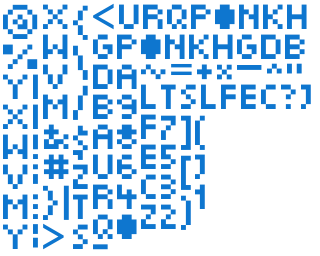
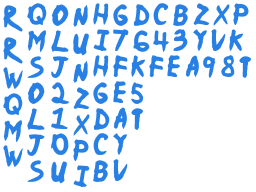
changes of font

diff --git a/core/src/com/agmcleod/nwt/GameScreen.java b/core/src/com/agmcleod/nwt/GameScreen.java
@@ -24,6 +24,7 @@ public class GameScreen implements Screen {
     private CoreGame cg;
     private Disc disc;
     private BitmapFont font;
+    private BitmapFont uiFont;
     private boolean gameOver;
     private ShapeRenderer shapeRenderer;
     private float spawnTimeCounter;
@@ -32,6 +33,7 @@ public class GameScreen implements Screen {
     private boolean restartNextFrame;
     private Array<Bounds> worldBounds;
     private float attackTimer;
+    private int round;
 
     public GameScreen(CoreGame cg) {
         this.cg = cg;
@@ -99,6 +101,7 @@ public class GameScreen implements Screen {
         if (stun != null) {
             stun.render(batch);
         }
+        uiFont.draw(batch, "Round: " + round + " of " + 3, 20, 670);
         batch.end();
         shapeRenderer.begin(ShapeRenderer.ShapeType.Filled);
         disc.renderHealth(shapeRenderer);
@@ -127,6 +130,7 @@ public class GameScreen implements Screen {
             add(new Bounds(0, -64, Gdx.graphics.getWidth(), 64));
         }};
         font = new BitmapFont(Gdx.files.internal("font.fnt"), Gdx.files.internal("font.png"), false);
+        uiFont = new BitmapFont(Gdx.files.internal("white-ui.fnt"), Gdx.files.internal("white-ui.png"), false);
         disc = new Disc(font);
         spawnTimeCounter = 0;
         attackTimer = 0;
@@ -134,6 +138,7 @@ public class GameScreen implements Screen {
         stun = null;
         gameOver = false;
         restartNextFrame = false;
+        round = 1;
     }
 
     public void spawnDisc() {
